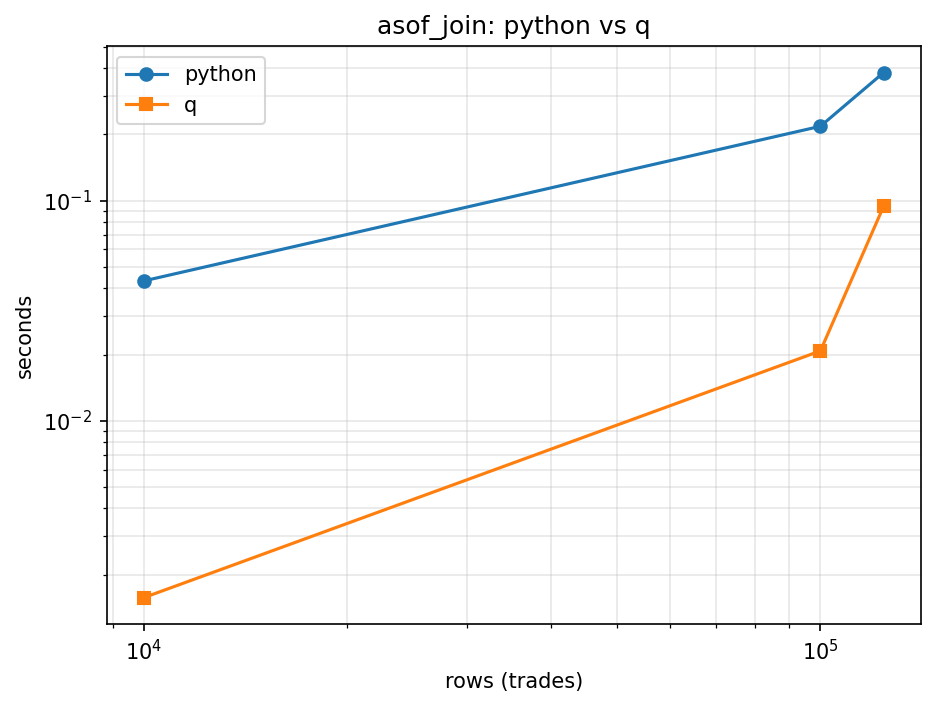
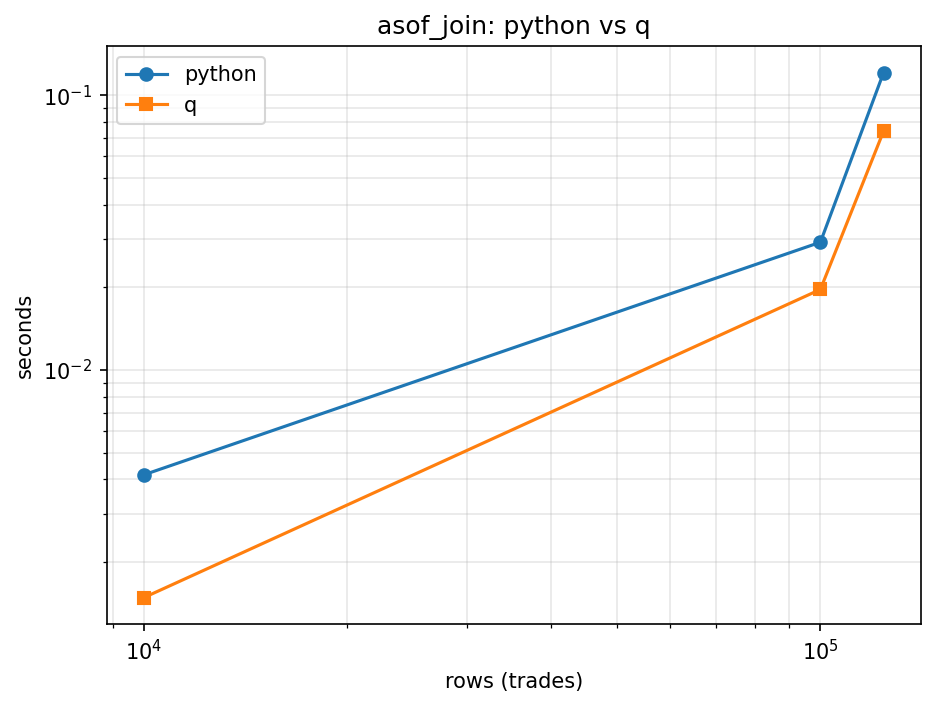
fix: correct benchmark methodology, vectorize VWAP, refresh results
time_op() was including tracemalloc overhead in the timed region,
inflating every Python measurement. Now times a median of 5 untraced
repeats and measures peak memory in a separate untimed call; q's
timeIt was updated to match (median of 5) for a symmetric comparison.
python/analytics.py's vwap() is now fully vectorized instead of using
groupby().apply(), which was the other source of Python's inflated
numbers. Correctness re-verified unchanged before re-benchmarking.
This narrows the previously reported q/Python speedup gap to the
correct, smaller numbers; README and progress.md updated to match.
Also backfills roadmap.md checkboxes for all four completed phases.

diff --git a/python/benchmark.py b/python/benchmark.py
@@ -17,7 +17,7 @@ Run: python python/benchmark.py
 import time
 import tracemalloc
 from pathlib import Path
-
+import statistics
 import pandas as pd
 
 from analytics import load_data, asof_join, ohlc_bars, vwap
@@ -30,14 +30,22 @@ def tier_label(n: int, full_n: int) -> int:
     return n if n is not None else full_n
 
 
-def time_op(fn, *args):
+def time_op(fn, *args, repeats=5):
+    # timing: no memory tracing running, so nothing but the real work is measured
+    times = []
+    for _ in range(repeats):
+        start = time.perf_counter()
+        result = fn(*args)
+        times.append(time.perf_counter() - start)
+    median_time = statistics.median(times)
+
+    # memory: measured separately, in its own single call, speed doesn't matter here
     tracemalloc.start()
-    start = time.perf_counter()
     result = fn(*args)
-    elapsed = time.perf_counter() - start
     _, peak = tracemalloc.get_traced_memory()
     tracemalloc.stop()
-    return result, elapsed, peak
+
+    return result, median_time, peak
 
 
 def run_benchmark(trades: pd.DataFrame, quotes: pd.DataFrame) -> pd.DataFrame:

diff --git a/python/analytics.py b/python/analytics.py
@@ -37,12 +37,11 @@ def ohlc_bars(trades: pd.DataFrame, freq: str = "5min") -> pd.DataFrame:
 
 
 def vwap(trades: pd.DataFrame) -> pd.DataFrame:
+    notional = trades["price"] * trades["size"]
+    grouped = trades.groupby("sym")["size"].sum()
     result = (
-        trades.groupby("sym")
-        .apply(lambda g: (g["price"] * g["size"]).sum() / g["size"].sum(), include_groups=False)
-        .rename("vwap")
-        .reset_index()
-    )
+        notional.groupby(trades["sym"]).sum() / grouped
+    ).rename("vwap").reset_index()
     return result
 
 

diff --git a/roadmap.md b/roadmap.md
@@ -15,9 +15,9 @@ Phased build plan for the kdb+/q vs Python market microstructure project. Writte
 
 ---
 
-## Phase 0: Repo setup
+## Phase 0: Repo setup — done
 
-- [ ] Initialize repo structure:
+- [x] Initialize repo structure:
   ```
   kdb-vs-pandas-microstructure/
   ├── README.md
@@ -36,62 +36,64 @@ Phased build plan for the kdb+/q vs Python market microstructure project. Writte
   └── results/
       └── (benchmark charts land here)
   ```
-- [ ] Place `all_trades.csv` and `all_quotes.csv` into `data/` (provided by the developer, generated during the planning conversation, not regenerated by Claude Code).
-- [ ] Write a stub `README.md` (title, one-paragraph description, "work in progress" note, filled in properly during Phase 4).
-- [ ] Commit and push. Suggested message: `chore: repo scaffold + real LOBSTER data`.
+- [x] Place `all_trades.csv` and `all_quotes.csv` into `data/` (provided by the developer, generated during the planning conversation, not regenerated by Claude Code).
+- [x] Write a stub `README.md` (title, one-paragraph description, "work in progress" note, filled in properly during Phase 4).
+- [x] Commit and push. Suggested message: `chore: repo scaffold + real LOBSTER data`.
 
 ---
 
-## Phase 1: Python reference implementation
+## Phase 1: Python reference implementation — done
 
 Build against `data/all_trades.csv` and `data/all_quotes.csv`. This becomes the source of truth the q port is checked against, so correctness here matters more than speed.
 
-- [ ] Load both CSVs, parse `time` as datetime, sort by `time`.
-- [ ] **Asof join**: `pd.merge_asof(trades, quotes, on="time", by="sym", direction="backward")`. Confirm zero (or explainably few) unmatched trades, this was already validated at 0 during planning, so a regression here means a bug.
-- [ ] **OHLC bars**: `groupby("sym").resample("5min")` on price/size, producing open/high/low/close/volume.
-- [ ] **VWAP**: `(price * size).sum() / size.sum()`, grouped by symbol.
-- [ ] **Spread metrics**: `midpoint = (bid+ask)/2`, `quotedSpread = ask-bid`, `effectiveSpread = 2*abs(price-midpoint)`.
-- [ ] **Trade classification**: classify each trade as buyer- or seller-initiated (e.g., price vs. midpoint). Compare output against the ground-truth `side` column already present in `all_trades.csv` (derived from LOBSTER's direction field) and report agreement rate.
-- [ ] Sanity-check outputs against the known validation results from planning (e.g., AAPL opened ~$585.74 that morning).
-- [ ] Commit and push. Suggested message: `feat: python reference implementation (asof join, OHLC, VWAP, spreads, classification)`.
+- [x] Load both CSVs, parse `time` as datetime, sort by `time`.
+- [x] **Asof join**: `pd.merge_asof(trades, quotes, on="time", by="sym", direction="backward")`. Confirm zero (or explainably few) unmatched trades, this was already validated at 0 during planning, so a regression here means a bug.
+- [x] **OHLC bars**: `groupby("sym").resample("5min")` on price/size, producing open/high/low/close/volume.
+- [x] **VWAP**: `(price * size).sum() / size.sum()`, grouped by symbol. (Rewritten later to a fully vectorized form, no `.apply()` — see `progress.md` decisions log.)
+- [x] **Spread metrics**: `midpoint = (bid+ask)/2`, `quotedSpread = ask-bid`, `effectiveSpread = 2*abs(price-midpoint)`.
+- [x] **Trade classification**: classify each trade as buyer- or seller-initiated (e.g., price vs. midpoint). Compare output against the ground-truth `side` column already present in `all_trades.csv` (derived from LOBSTER's direction field) and report agreement rate.
+- [x] Sanity-check outputs against the known validation results from planning (e.g., AAPL opened ~$585.74 that morning).
+- [x] Commit and push. Suggested message: `feat: python reference implementation (asof join, OHLC, VWAP, spreads, classification)`.
 
 ---
 
-## Phase 2: q/kdb+ port
+## Phase 2: q/kdb+ port — done
 
 Port Phase 1's logic into idiomatic q. **Not a line-by-line translation** — use q's native tools (`aj`, `xbar`, `wavg`, vectorized functional forms) rather than mimicking pandas' structure. A clunky port would make the later benchmark unfair.
 
-- [ ] `schema.q`: define `trade` and `quote` tables, load from the same CSVs in `data/`.
-- [ ] **Asof join**: `aj[\`sym\`time; trade; quote]`.
-- [ ] **OHLC bars**: `xbar`-based bucketing, same 5-minute windows as the Python version.
-- [ ] **VWAP**: `size wavg price`, grouped by `sym`.
-- [ ] **Spread metrics**: same formulas as Phase 1, in q syntax.
-- [ ] **Trade classification**: same logic as Phase 1, in q.
-- [ ] **Row-for-row validation**: compare q output against Python output from Phase 1 for every operation. This is the correctness gate before any benchmarking happens — do not proceed to Phase 3 until outputs match (or differences are understood and explainable, e.g., floating-point rounding).
-- [ ] Commit and push. Suggested message: `feat: q port + validated against python reference`.
+- [x] `schema.q`: define `trade` and `quote` tables, load from the same CSVs in `data/`.
+- [x] **Asof join**: `aj[\`sym\`time; trade; quote]`.
+- [x] **OHLC bars**: `xbar`-based bucketing, same 5-minute windows as the Python version.
+- [x] **VWAP**: `size wavg price`, grouped by `sym`.
+- [x] **Spread metrics**: same formulas as Phase 1, in q syntax.
+- [x] **Trade classification**: same logic as Phase 1, in q.
+- [x] **Row-for-row validation**: compare q output against Python output from Phase 1 for every operation. This is the correctness gate before any benchmarking happens — do not proceed to Phase 3 until outputs match (or differences are understood and explainable, e.g., floating-point rounding).
+- [x] Commit and push. Suggested message: `feat: q port + validated against python reference`.
 
 ---
 
-## Phase 3: Benchmark harness
+## Phase 3: Benchmark harness — done
 
-- [ ] Subsampling: chronological (first N rows) at three tiers — 10k, 100k, full (~1.04M quotes / ~124k trades). No random sampling, no synthetic data (see `progress.md` decisions log).
-- [ ] Time each operation (asof join, OHLC, VWAP) separately, at each tier, in both languages:
-  - Python: `time.perf_counter()`
-  - q: `\t` prefix in console, or `.z.p` timestamps around the query
-- [ ] Track peak memory if feasible (`tracemalloc` in Python; optional, don't block on this if it's awkward in q).
-- [ ] **Charting**: default to `matplotlib` unless told otherwise (this was an open item at planning time — confirm with the developer before or during this phase if unclear). One chart per operation, row count on x-axis, time on y-axis (log scale is fine), one line per language.
-- [ ] Save charts to `results/`.
-- [ ] Note caveats directly in code comments or a short markdown note: in-memory only (not testing kdb+'s on-disk historical engine), chronological subsampling means 10k/100k tiers skew toward the market-open period, idiomatic-not-literal q port.
-- [ ] Commit and push. Suggested message: `feat: benchmark harness + results`.
+- [x] Subsampling: chronological (first N rows) at three tiers — 10k, 100k, full (~1.04M quotes / ~124k trades). No random sampling, no synthetic data (see `progress.md` decisions log).
+- [x] Time each operation (asof join, OHLC, VWAP) separately, at each tier, in both languages:
+  - Python: `time.perf_counter()`, median of 5 repeats
+  - q: `.z.p` timestamps around the query, median of 5 repeats (hand-rolled `medianOf`, matches Python's methodology)
+- [x] Track peak memory if feasible (`tracemalloc` in Python, measured in a separate untimed call so it doesn't distort the timing numbers; not tracked in q, awkward without external tooling, allowed by this checklist to skip).
+- [x] **Charting**: `matplotlib` confirmed. One chart per operation, row count on x-axis, time on y-axis (log scale), one line per language.
+- [x] Save charts to `results/`.
+- [x] Note caveats directly in code comments or a short markdown note: in-memory only (not testing kdb+'s on-disk historical engine), chronological subsampling means 10k/100k tiers skew toward the market-open period, idiomatic-not-literal q port.
+- [x] Commit and push. Suggested message: `feat: benchmark harness + results`.
 
 ---
 
-## Phase 4: Writeup
+## Phase 4: Writeup — done
 
-- [ ] Fill in `README.md` properly: what the project does, the schema, how to run both sides, the benchmark charts embedded, the caveats from Phase 3.
-- [ ] Draft the resume bullet using real measured numbers, e.g.:
+- [x] Fill in `README.md` properly: what the project does, the schema, how to run both sides, the benchmark charts embedded, the caveats from Phase 3.
+- [x] Draft the resume bullet using real measured numbers, e.g.:
   > "Built a tick-data analytics engine in Python and kdb+/q implementing asof joins, OHLC bar aggregation, and spread metrics on real NASDAQ trade/quote data (1.04M+ rows); benchmarked the two implementations, showing [X]x faster asof joins in kdb+ at [N] rows."
-- [ ] Final commit and push. Suggested message: `docs: final writeup + benchmark results`.
+- [x] Final commit and push. Suggested message: `docs: final writeup + benchmark results`.
+
+Note: README's numbers were refreshed after Phase 3's benchmark methodology was corrected post-hoc (median-of-5 timing, memory tracing separated from timing, VWAP de-`.apply()`'d) — see `progress.md` decisions log. Numbers in README reflect the corrected run, not the original Phase 3 commit.
 
 ---
 

diff --git a/progress.md b/progress.md
@@ -4,7 +4,7 @@ Status tracker for the kdb+/q vs Python market microstructure project. Update th
 
 ---
 
-## Current status: Phase 4 complete (writeup) — project done
+## Current status: Phase 4 complete, benchmark methodology corrected post-hoc — project done
 
 ## Environment
 
@@ -55,6 +55,7 @@ No synthetic data used or planned. This is a deliberate choice.
 - q float comparison tolerance: kdb+'s relational operators (`=`, `<`, `>`) apply a built-in near-equality tolerance for floats, so directly comparing `price` and `midpoint` (two independently-rounded doubles that are often 1-4 ULPs apart) falsely evaluated as equal far more often than in Python's exact IEEE754 comparison. Fixed in `q/analytics.q` by comparing the sign of `price-midpoint` instead of comparing the two floats directly — the difference-then-compare-to-0 pattern sidesteps the tolerance. Found during Phase 2 row-for-row validation.
 - q `aj` needs the quote table's `sym` column tagged with the `` `p# `` (parted) attribute, on data pre-sorted sym-then-time, to use its binary-search fast path. Without it, `aj` fell back to a much slower path: **~283 seconds** for the full-dataset asof join, vs **~0.03 seconds** with the attribute set — roughly a 10,000x difference, for identical results. Found while building the Phase 3 benchmark (the slow path is why early benchmark runs looked like they were silently hanging or failing). Fixed in `q/schema.q`, which now sorts `` `sym`time `` and applies `` `p#sym `` to both tables. `q/benchmark.q`'s chronological tiering needs pure time order for its subsampling, which breaks that attribute, so its `asof_join` timing includes the cost of re-sorting and re-tagging each tiered subsample — see the caveat comment in that file.
 - q parser gotcha: a line containing **only** `/` (no trailing text) toggles kdb+'s parser into multi-line block-comment mode, which is only closed by a line containing only `\`. Without a closing `\`, everything after that lone `/` is silently swallowed as a comment — no error, no output, script just does nothing. This cost significant time debugging an apparently-silent `q/benchmark.q` failure during Phase 3 before being traced to a single blank `/` separator line in a comment block. Lesson: never use a bare `/` line as a comment-block spacer in q scripts, use `/ ` (slash plus content, even just a space) or omit the separator line entirely.
+- Post-Phase-4 benchmark methodology correction (developer-made edits, reviewed and verified): the original `time_op()` in `python/benchmark.py` ran `tracemalloc.start()` for the *entire* timed region, so every "seconds" measurement included memory-tracing overhead, not just the real work — inflating every Python timing across the board. Fixed by separating the two: timing is now a **median of 5 untraced repeats** (`statistics.median`), and peak memory is measured in one separate untimed call afterward. `q/benchmark.q`'s `timeIt` was updated to match — also median of 5 repeats (hand-rolled `medianOf`, since q has no stdlib equivalent) — so both languages use the same repeat/median methodology and the comparison is symmetric. Also, `python/analytics.py`'s `vwap()` was rewritten to avoid `.apply()` (was `groupby("sym").apply(lambda g: ...)`, now a fully vectorized `notional = price*size` summed and divided by grouped `size` sums) — `.apply()` runs Python-level code per group, which is much slower than vectorized pandas ops at this row count. Net effect: Python got substantially faster (less overhead measured, and a genuinely faster VWAP implementation), which **narrows** the q/Python speedup gap from what Phase 3 originally reported — see the corrected numbers below. Re-ran `python/analytics.py` and `q/analytics.q` after these changes to confirm correctness was untouched: results identical to the Phase 2 validation (0 unmatched trades, AAPL first bar, VWAP by symbol, 74.80% classification agreement, spread summary all match to displayed precision).
 
 ## Open items
 
@@ -123,3 +124,17 @@ Caveats (also documented as code comments in both benchmark scripts): in-memory 
 `README.md` filled in properly: project description, schema, repo layout, how to run both sides, benchmark results table + embedded charts, all caveats, and a resume bullet using the real measured numbers (see Phase 3 entry above for the underlying figures).
 
 All four roadmap phases are complete. Project done, pending final commit/push.
+
+## Post-Phase-4 correction — 2026-08-19
+
+Developer-made edits (reviewed above in the decisions log): fixed a benchmark-timing methodology flaw (`tracemalloc` overhead was being included in the timed region) and rewrote `python/analytics.py`'s `vwap()` to be fully vectorized instead of using `.apply()`. Both languages now benchmark via median-of-5 repeats. Re-verified correctness first — `python/analytics.py` and `q/analytics.q` outputs are unchanged from the Phase 2 validation (0 unmatched trades, AAPL first bar, VWAP by symbol, 74.80% classification agreement, spread summary all match) — then re-ran both benchmark scripts.
+
+Corrected results (seconds, full-dataset tier: 123,984 trades / 1,041,889 quotes, median of 5 repeats):
+
+| Operation | Python | q | Speedup |
+|---|---|---|---|
+| asof_join | 0.1209 | 0.0740 | ~1.6x |
+| ohlc | 0.0341 | 0.0044 | ~7.8x |
+| vwap | 0.0110 | 0.0015 | ~7.4x |
+
+q is still faster at every tier and every operation, but the gap is smaller than Phase 3 originally reported (previously ~4.1x/~17.4x/~17.5x) — that original numbers were inflated by the tracemalloc-in-timing-loop bug and the pre-vectorization `.apply()`-based VWAP, both fixed now. **These are the current, correct numbers**; `README.md` has been updated to match. `results/benchmark_python.csv`, `results/benchmark_q.csv`, and the three `results/*.png` charts were regenerated by the developer's own runs (also re-verified their content matches the CSVs above).

diff --git a/README.md b/README.md
@@ -59,9 +59,11 @@ Full-dataset tier (123,984 trades / 1,041,889 quotes), python vs q:
 
 | Operation | Python | q | Speedup |
 |---|---|---|---|
-| Asof join | 0.381s | 0.094s | ~4.1x |
-| OHLC bars | 0.075s | 0.0043s | ~17.4x |
-| VWAP | 0.027s | 0.0016s | ~17.5x |
+| Asof join | 0.1209s | 0.0740s | ~1.6x |
+| OHLC bars | 0.0341s | 0.0044s | ~7.8x |
+| VWAP | 0.0110s | 0.0015s | ~7.4x |
+
+Each number is the median of 5 timed repeats, in both languages.
 
 q is faster at every tier and every operation.
 
@@ -81,4 +83,4 @@ Full narrative of what was tried, what broke, and why — including the two real
 
 ## Resume bullet
 
-> Built a tick-data analytics engine in Python and kdb+/q implementing asof joins, OHLC bar aggregation, VWAP, and spread/trade-classification metrics on real NASDAQ trade/quote data (1.04M+ rows); validated both implementations row-for-row and benchmarked them, measuring kdb+ up to ~17x faster than pandas on OHLC/VWAP aggregation and ~4x faster on asof joins at full scale.
+> Built a tick-data analytics engine in Python and kdb+/q implementing asof joins, OHLC bar aggregation, VWAP, and spread/trade-classification metrics on real NASDAQ trade/quote data (1.04M+ rows); validated both implementations row-for-row and benchmarked them, measuring kdb+ up to ~7.8x faster than pandas on OHLC/VWAP aggregation and ~1.6x faster on asof joins at full scale.
